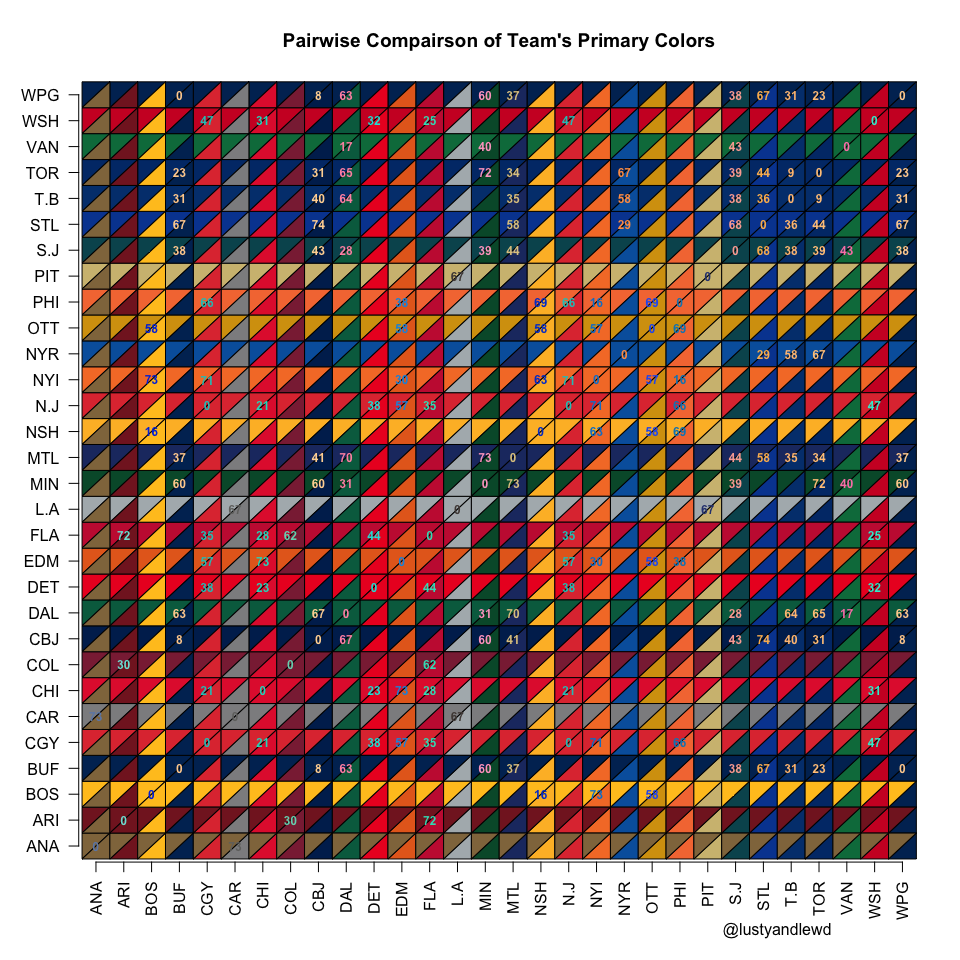
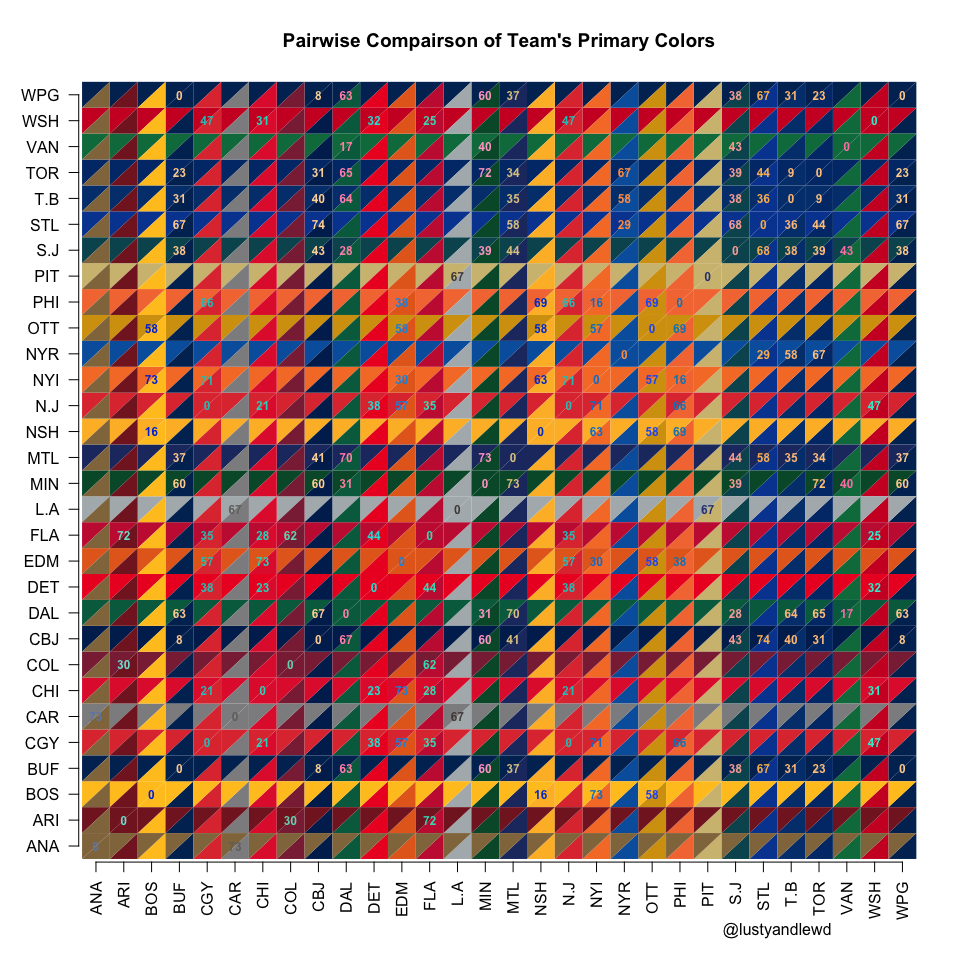
remove polygon borders

Changed region(s): [[0.0625, 0.0625, 0.9688, 0.9062]]

diff --git a/Color_comparison.md b/Color_comparison.md
@@ -4,7 +4,7 @@ March 1, 2016
 
 
 ```r
-suppressWarnings(suppressPackageStartupMessages(source("exploratory.R")))
+suppressWarnings(suppressPackageStartupMessages(source("hockey/eventPlot.R")))
 
 colorInv <- function(x) {
   # Finds the inverse of a color
@@ -27,8 +27,8 @@ axis(2, at = seq(0.5, 29.5, by = 1), labels = names(team.colors[1:30]), las = 2)
 
 for (i in 1:30){
   for (j in 1:30){
-    polygon(c(i, i - 1, i - 1, i), c(j, j, j - 1, j), col = team.colors[j])
-    polygon(c(j - 1, j, j, j - 1), c(i - 1, i - 1, i, i - 1), col = team.colors[j])
+    polygon(c(i, i - 1, i - 1, i), c(j, j, j - 1, j), col = team.colors[j], border = NA)
+    polygon(c(j - 1, j, j, j - 1), c(i - 1, i - 1, i, i - 1), col = team.colors[j], border = NA)
   }
 }
 
